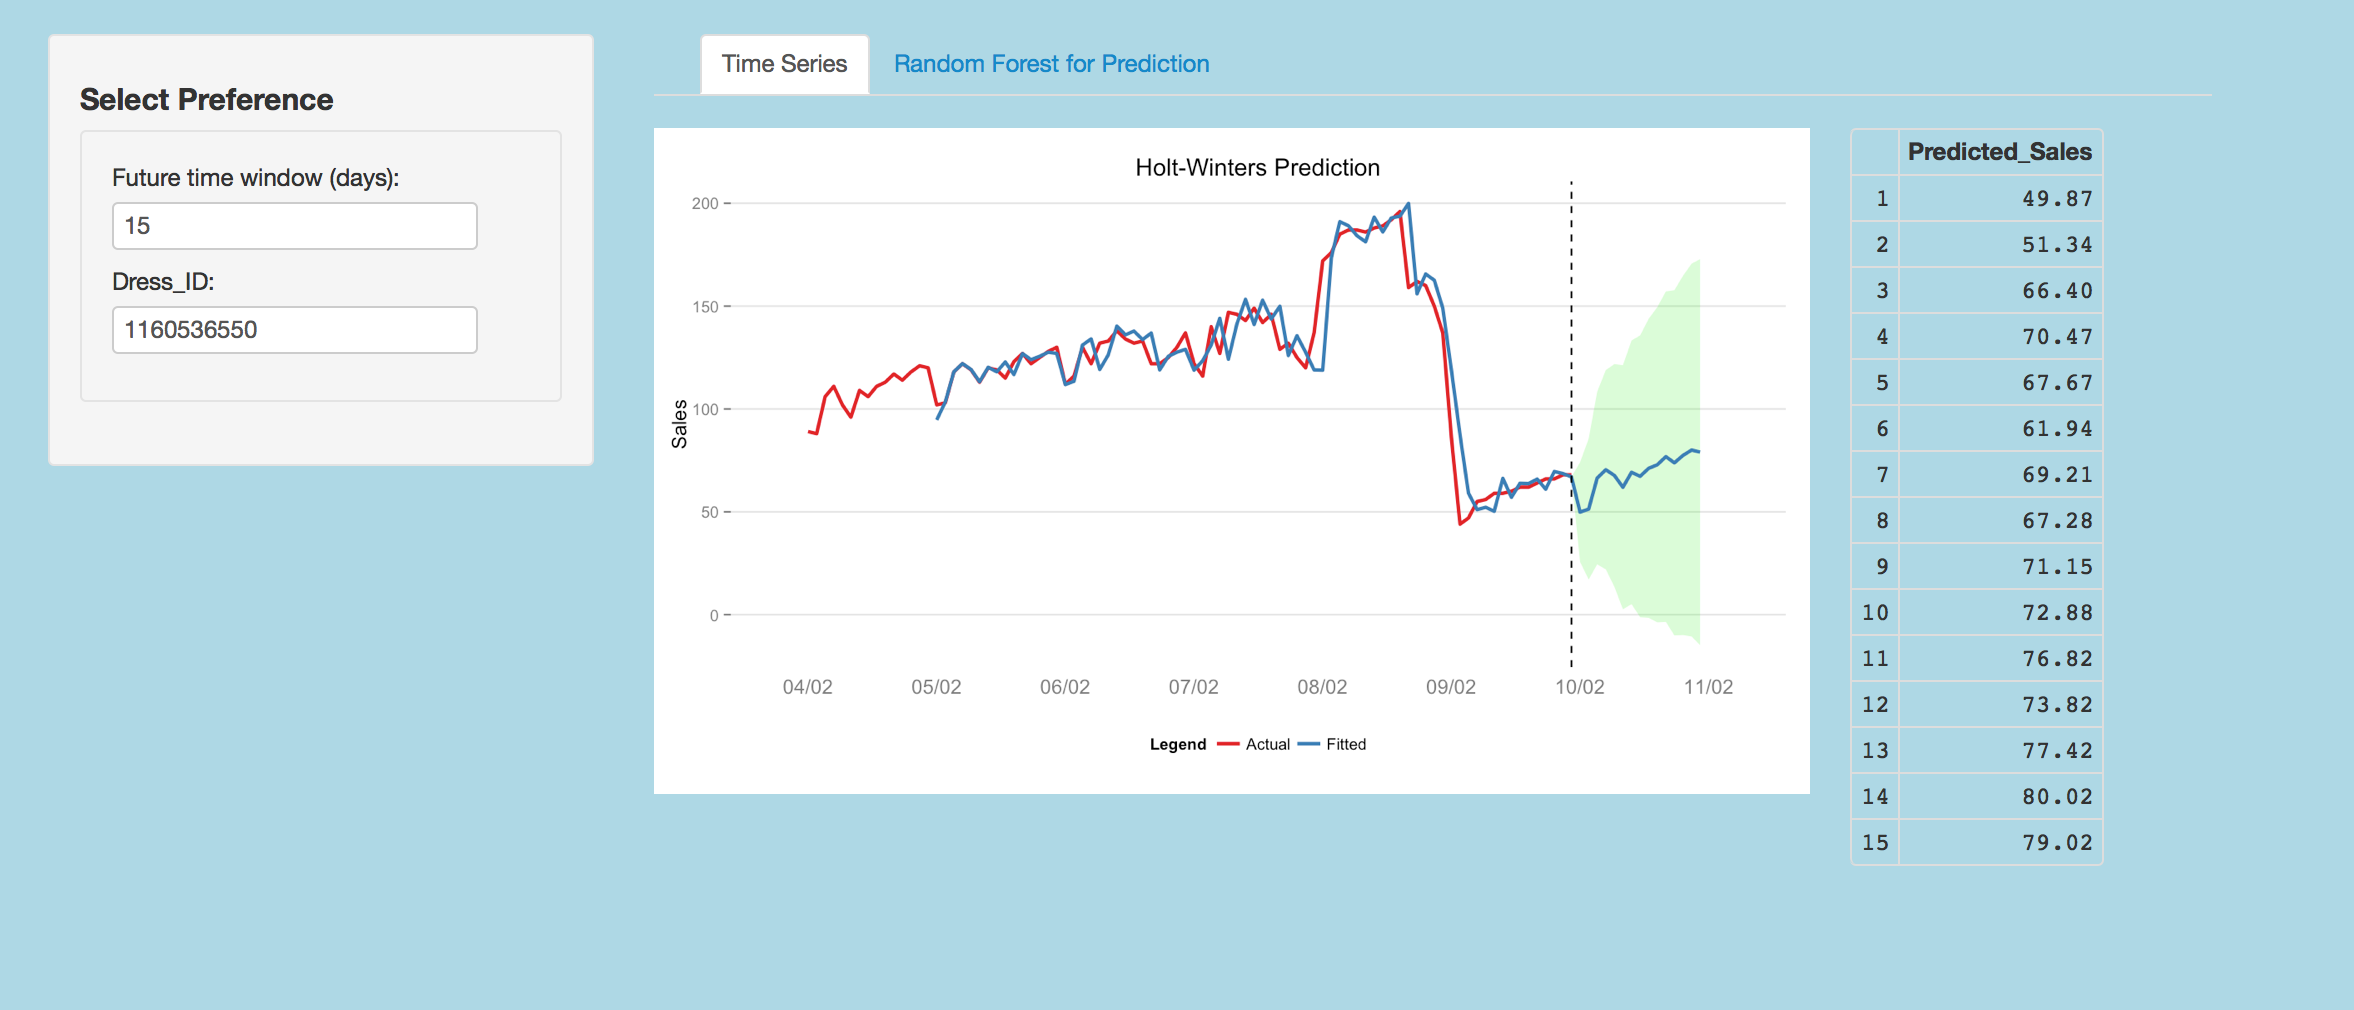
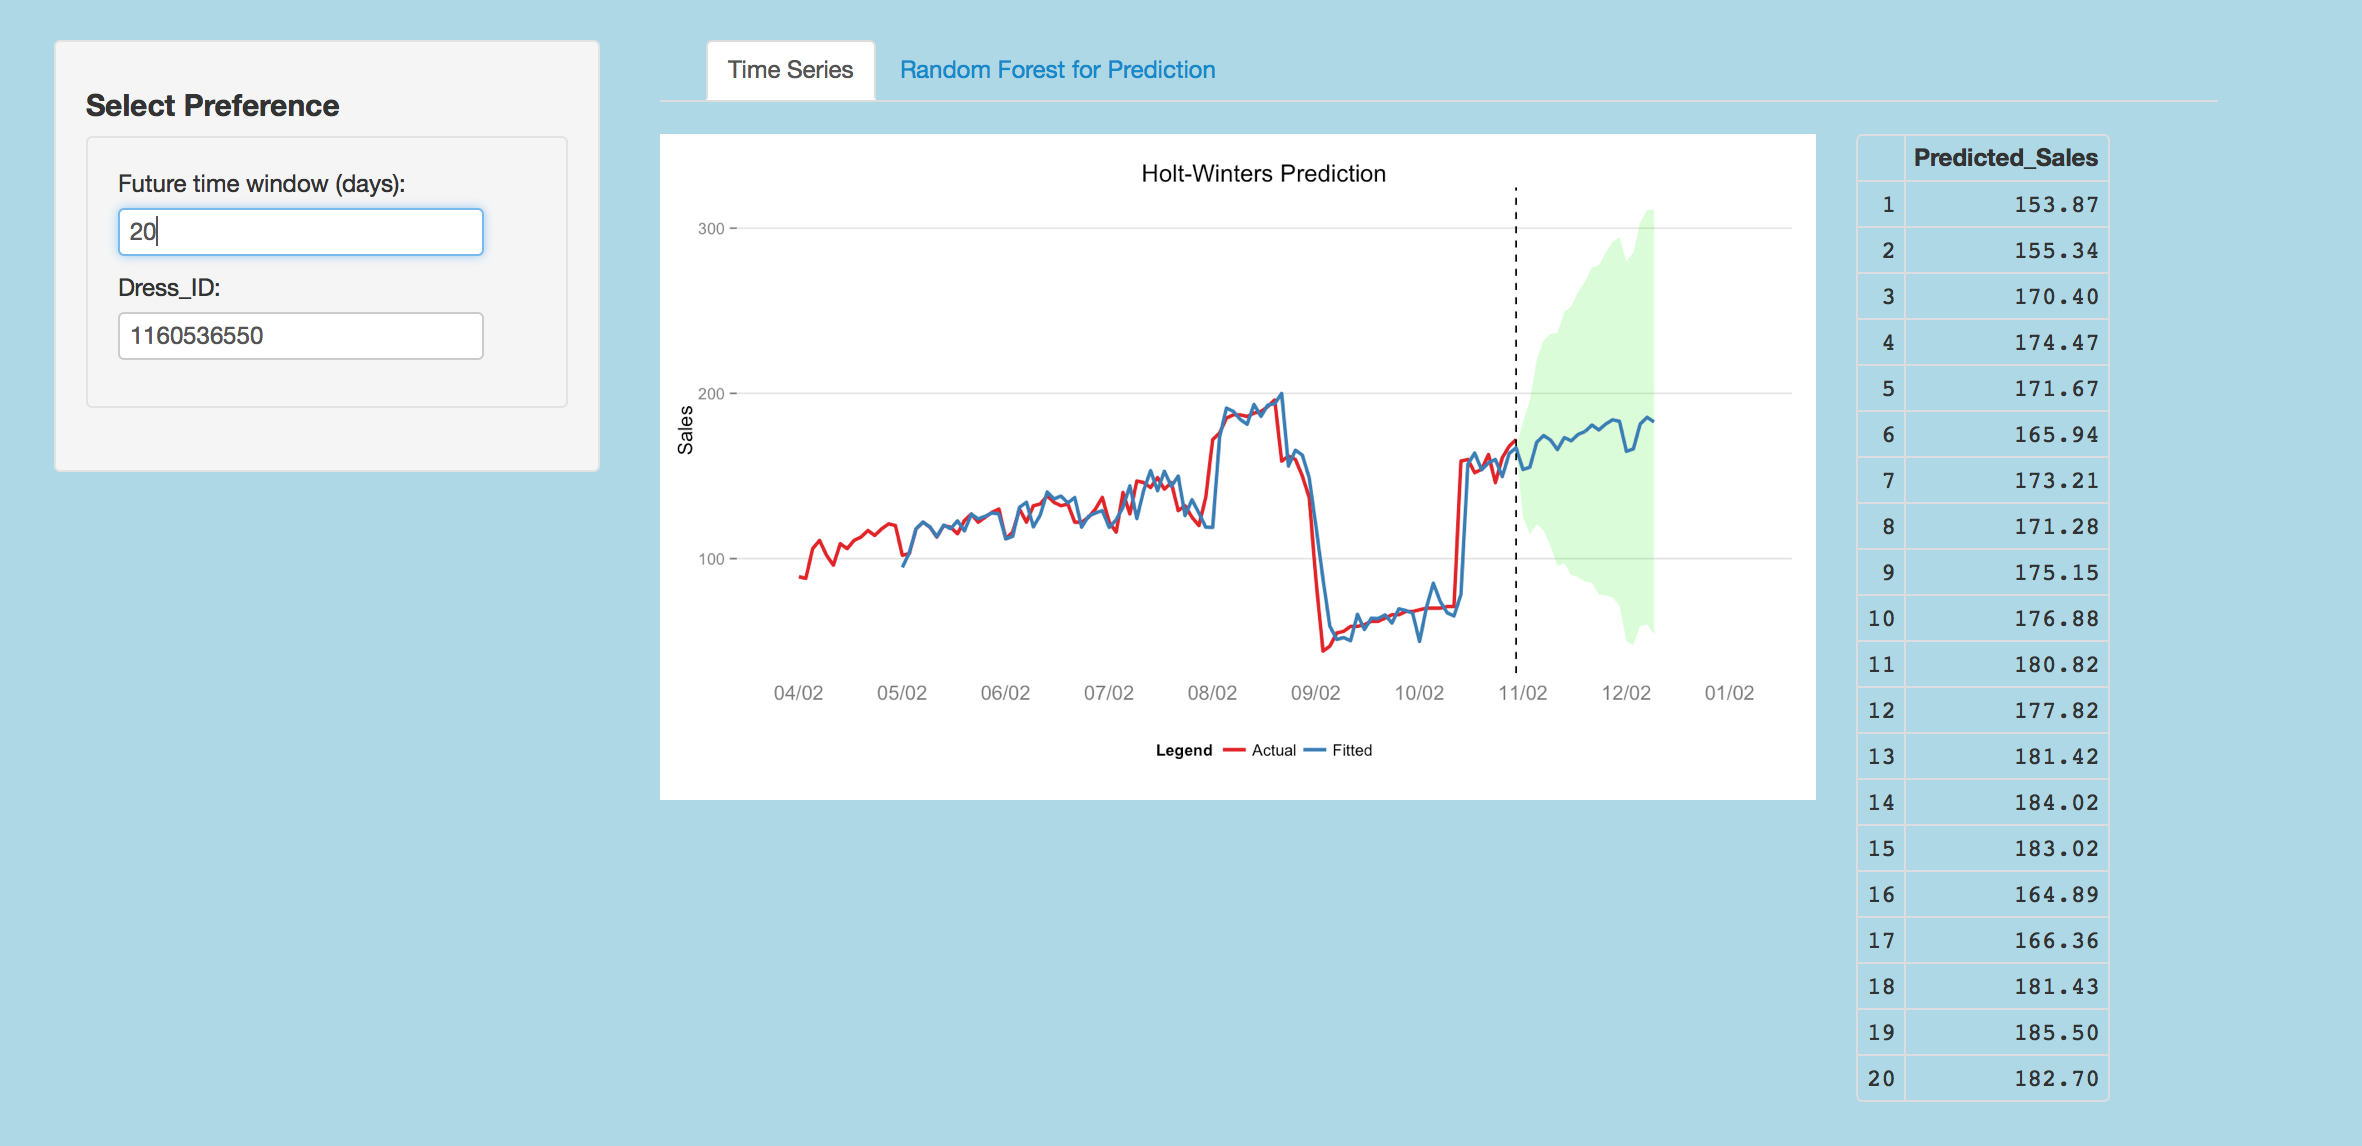
update

diff --git a/final-project/README.md b/final-project/README.md
@@ -247,7 +247,7 @@ the interface give advice for them to make better decision by modeling and predi
   * Evaluation:
   	The lie factor of this plot is also 1 since there is no misrepresentation and the color of each box is just based on the 
   	accurate calculated Pearson correlation values; The data-density is relative low due to many empty boxes which indicate two factors are independent with each other; 
-  	The legend makes the data-ink lower, but I kept it since it is necessary for users to distinguish different standardized residuals level. The think the data-ink is good for this plot.
+  	The legend makes the data-ink lower, but I kept it since it is necessary for users to distinguish different standardized residuals level. I think the data-ink is good for this plot.
 
   * What I learned about the dataset from the visualization:
   	From the above Mosaic, we can see 'free' size and 'High' price level dresses has relatively high negative correlation, while 'free' and 'L' size  positively correlated to 'low' price 
@@ -260,11 +260,92 @@ the interface give advice for them to make better decision by modeling and predi
     The users have option to choose the x-axis variable they are interested in, for example, size, price, and so on.
 
   * Select y-axis:
-    Also, the users have option to choose the x-axis variable they are interested in
+    Also, the users have option to choose the x-axis variable they are interested in.
     
   
 
 ## Technique Five --- Time Series Plot ## 
 
   ![IMAGE](Tech5.png)
+  
+  * Reason for choosing this technique (What I think the visualization excels at) : 
+    The Heatmap and Small multiples shows historical sales trend of dresses, but managers are more interested in the future sales trend of dresses 
+    to set up price strategy. The time series plot shows both actual and fitted sales based on Holt Winters time series model in different colors 
+    for comparison. Also, it provides predicted sales for future 10 days with green shadowed confidence interval.. 
+    
+  * How I encoded the data:
+  	First, I only used numerical variables --- historical sales record; 
+  	Second, I deleted `NA` values by using `na.omit`; 
+  	Third,  built Holt winters time series model, and extracted both actual and fitted values; 
+  	In addition, I merged actual and fitted values by time;
+  	Last, melt sub data frame ('time', 'actual','fitted') by time.	
+ 
+  * Evaluation:
+  	The lie factor of this plot is also 1 since there is no misrepresentation and the lines are just based on the actual sales and 
+  	accurate calculated fitted values; The data-density is relative low, but it is reasonable for a time series plot;
+  	The legend makes the data-ink lower, but I kept it since it is necessary for users to distinguish actual or fitted sales. 
+  	I think the data-ink ratio is good for this plot after I removed excessive grid and tick marks.
+
+  * What I learned about the dataset from the visualization:
+  	From the above Time series, we can see the fitted sales values are very close to the actual sales, which means the built
+  	Holt Winters model is good for predicting sales. What's more, the plot shows predicted sales for the further 10 days sales, 
+  	which is very important for managers to make business decision.
+  	
+  	
+* Interactivity
+  ![IMAGE](inter7.png)
+  
+  * Select Future time window (days): 
+    The users have option to choose how many days in the future they want to see the prediction sales values;
+  * Select Dress_ID:
+    Also, the users have option to choose to predict which dress.
+    
+    
+
+
+## Prototype Feedback ##
+
+   * Got suggestion to create a recommendation engineer panel : If a user inputs a particular value of each feature, 
+     he/she can get the output of whether he should buy a particular cloth.
+     
+     Changes I made: I created a recommendation engineer panel in my shiny interface. It looks like following:
+     ![IMAGE](inter8.png)
+     
+     Users set up his/her own select preference about dress style, the recommendation engineer panel will automatically
+     give advice about whether the dress type is recommended by other customers.
+         
+   *  Got suggestion about there are too many machine learning implemented, but this may not be the best place to do it since it has to recalculate every time. 
+   
+      Changes I made: Instead of many machine learning algorithms, I finally only chose Random Forest model for prediction to save running time.
+      For a random forest model , the VarImpPlot could change every time due to the random nature of bootstrapping. So set the seed and wait
+     until a user wants to train a different tree.
+
+    * Got suggestion about putting all the sales on different days into the random forest data may not be valid since dresses that were sold more
+      meant they were more popular, and thus would also have much higher rating compared to dresses that were not so good in sale. 
+      Changes I made: Kicked out sales record from the random forest model, and only keep categorical variables, for example, price, seacon, size and so on 
+      in the Random forest model to see which variables are importance to predict whether a dress is recommended by other customers.
+
+
+## Challenges ##
+
+* One of the challenge parts for me is encode data properly before apply it directly into ggplot2. Since every plot has its 
+own characteristic and requirements of the data, it is hard and time-consuming for me to make changes of the data before every plot.
+For example, even though small multiples and time series plot looks similar, but I need deal with the data independently for them since 
+the data should be melt by different ID and based on different columns.
+
+* If I have more time, I would like to implement deeper analysis as a data scientist. In addition to the Holt Winter time series analysis,
+I will build different time series models, for example, moving average, ARIME, and SRIMA models to compare their accuracy. Similarly, in addition to 
+Random Forest model, I also can implement logistic regression or Naive Bayes model to make this shiny interface more professional for other data analyst or 
+data scientist to use. In other aspect, I will spend more time to improve my plots and the interactivity.
+
+Overall,  in addition to the techniques I learned during this class, I also explored time series modeling and machine learning modeling possibilities in the shiny App.
+I believe it is a great skill for me in my future study and work life. 
+ 
+
+
+    
+  
+  
+  
+  
   
